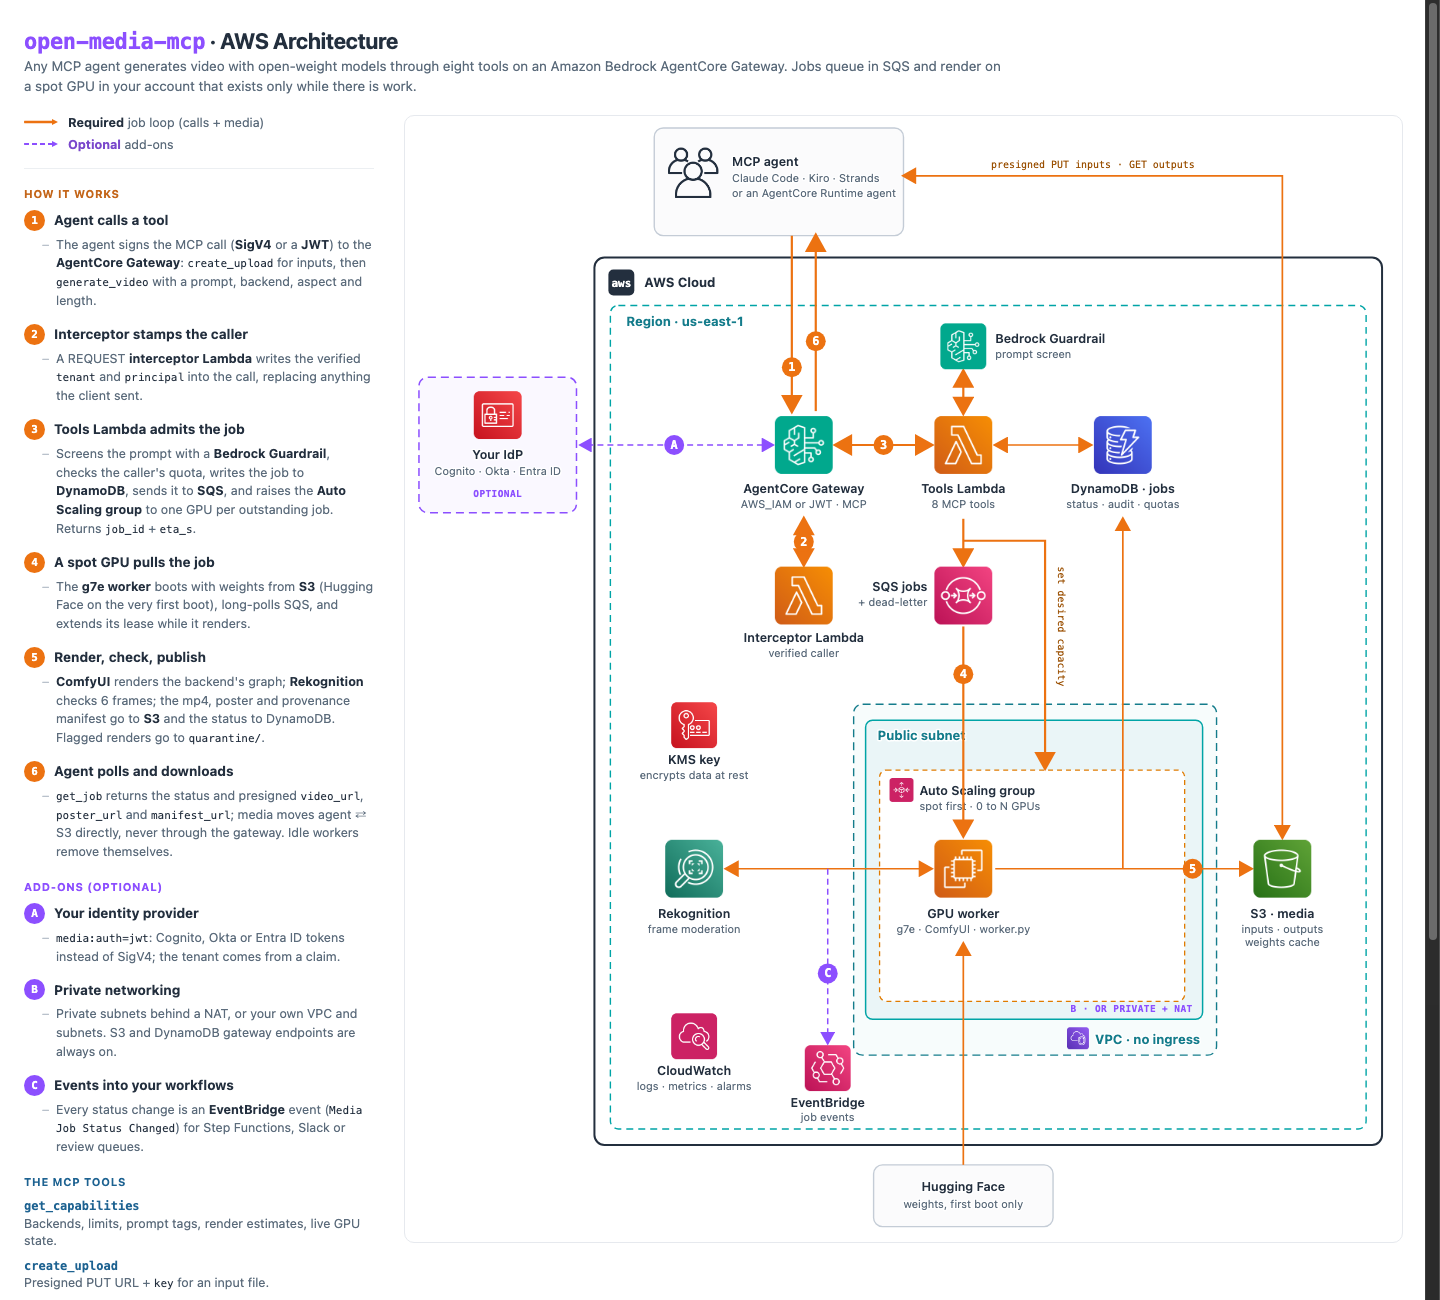
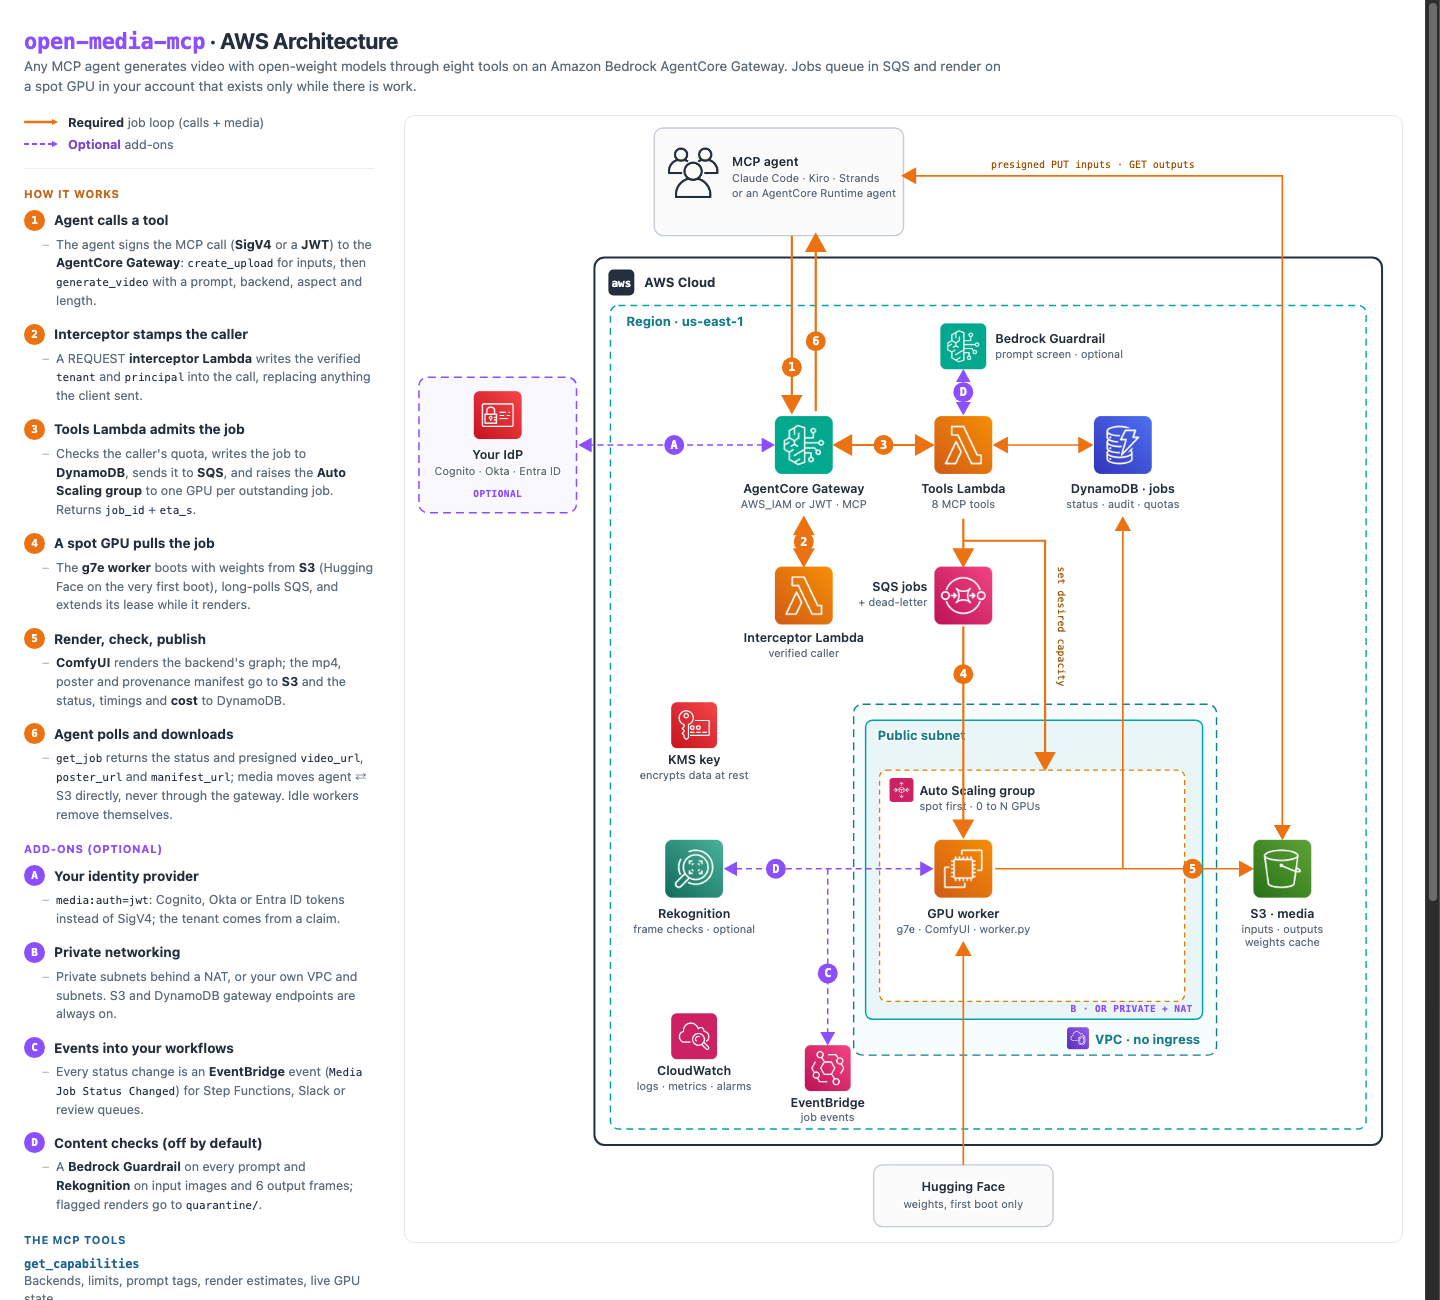
Content checks opt-in: guardrail and Rekognition moderation off by default; re-screen guardrail-blocked retries

diff --git a/docs/architecture.html b/docs/architecture.html
@@ -68,7 +68,7 @@
       </div>
       <div class="sec req">
         <div class="h"><span class="n">3</span> Tools Lambda admits the job</div>
-        <ul><li>Screens the prompt with a <b>Bedrock Guardrail</b>, checks the caller's quota, writes the job to <b>DynamoDB</b>, sends it to <b>SQS</b>, and raises the <b>Auto Scaling group</b> to one GPU per outstanding job. Returns <code>job_id</code> + <code>eta_s</code>.</li></ul>
+        <ul><li>Checks the caller's quota, writes the job to <b>DynamoDB</b>, sends it to <b>SQS</b>, and raises the <b>Auto Scaling group</b> to one GPU per outstanding job. Returns <code>job_id</code> + <code>eta_s</code>.</li></ul>
       </div>
       <div class="sec req">
         <div class="h"><span class="n">4</span> A spot GPU pulls the job</div>
@@ -76,7 +76,7 @@
       </div>
       <div class="sec req">
         <div class="h"><span class="n">5</span> Render, check, publish</div>
-        <ul><li><b>ComfyUI</b> renders the backend's graph; <b>Rekognition</b> checks 6 frames; the mp4, poster and provenance manifest go to <b>S3</b> and the status to DynamoDB. Flagged renders go to <code>quarantine/</code>.</li></ul>
+        <ul><li><b>ComfyUI</b> renders the backend's graph; the mp4, poster and provenance manifest go to <b>S3</b> and the status, timings and <b>cost</b> to DynamoDB.</li></ul>
       </div>
       <div class="sec req">
         <div class="h"><span class="n">6</span> Agent polls and downloads</div>
@@ -97,6 +97,11 @@
         <ul><li>Every status change is an <b>EventBridge</b> event (<code>Media Job Status Changed</code>) for Step Functions, Slack or review queues.</li></ul>
       </div>
 
+      <div class="sec opt">
+        <div class="h"><span class="n">D</span> Content checks (off by default)</div>
+        <ul><li>A <b>Bedrock Guardrail</b> on every prompt and <b>Rekognition</b> on input images and 6 output frames; flagged renders go to <code>quarantine/</code>.</li></ul>
+      </div>
+
       <div class="grp req" style="color:#1d6291">The MCP tools</div>
       <div class="tools">
         <div class="tool"><b>get_capabilities</b><span>Backends, limits, prompt tags, render estimates, live GPU state.</span></div>
@@ -109,7 +114,7 @@
       </div>
 
       <div class="grp req" style="color:#1d6291">Backends</div>
-      <div class="models"><b>wan2.2</b> (default) Apache-2.0, 720p silent T2V / I2V.<br><b>h3</b> (opt-in) picture + sound, lip-sync, refs; MiniMax H3 license excludes the US, EU, UK and KR.</div>
+      <div class="models"><b>wan2.2</b> (default) Apache-2.0, 720p silent T2V / I2V.<br><b>h3</b> (opt-in) picture + sound, lip-sync, reference images / video / audio; you need a MiniMax license in the US, EU, UK and KR.</div>
 
       <div class="cost"><b>Cost:</b> the GPU bills only while a worker exists (spot g7e.4xlarge ≈ USD 1.3-2/h). Idle cost is the KMS key and the S3 weight cache, about USD 3/month.</div>
     </aside>
@@ -194,7 +199,8 @@
       <!-- 3 gateway <-> tools, tools <-> guardrail, tools <-> dynamodb -->
       <path class="flow" d="M432,330 H528" marker-start="url(#arR)" marker-end="url(#ar)"/>
       <circle cx="480" cy="330" r="10" fill="#ec7211"/><text class="num" x="480" y="334" text-anchor="middle">3</text>
-      <path class="flow" d="M560,298 V256" marker-start="url(#arR)" marker-end="url(#ar)"/>
+      <path class="opt" d="M560,298 V256" marker-start="url(#aoR)" marker-end="url(#ao)"/>
+      <circle cx="560" cy="277" r="10" fill="#8c4fff"/><text class="num" x="560" y="281" text-anchor="middle">D</text>
       <path class="data" d="M592,330 H688" marker-start="url(#arR)" marker-end="url(#ar)"/>
 
       <!-- tools -> sqs spine, tee right to the Auto Scaling group -->
@@ -212,7 +218,8 @@
       <circle cx="790" cy="755" r="10" fill="#ec7211"/><text class="num" x="790" y="759" text-anchor="middle">5</text>
 
       <!-- worker <-> rekognition, tee down to EventBridge (C) -->
-      <path class="data" d="M528,755 H322" marker-start="url(#arR)" marker-end="url(#ar)"/>
+      <path class="opt" d="M528,755 H322" marker-start="url(#aoR)" marker-end="url(#ao)"/>
+      <circle cx="372" cy="755" r="10" fill="#8c4fff"/><text class="num" x="372" y="759" text-anchor="middle">D</text>
       <path class="opt" d="M424,755 V930" marker-end="url(#ao)"/>
       <circle cx="424" cy="860" r="10" fill="#8c4fff"/><text class="num" x="424" y="864" text-anchor="middle">C</text>
 
@@ -226,7 +233,7 @@
 
       <image href="./assets/aws/bedrock.png" x="537" y="208" width="46" height="46"/>
       <text class="ilab" x="592" y="228">Bedrock Guardrail</text>
-      <text class="ilab2" x="592" y="243">prompt screen</text>
+      <text class="ilab2" x="592" y="243">prompt screen · optional</text>
 
       <image href="./assets/aws/lambda.png" x="531" y="301" width="58" height="58"/>
       <text class="ilab" x="560" y="378" text-anchor="middle">Tools Lambda</text>
@@ -259,7 +266,7 @@
 
       <image href="./assets/aws/rekognition.png" x="261" y="726" width="58" height="58"/>
       <text class="ilab" x="290" y="804" text-anchor="middle">Rekognition</text>
-      <text class="ilab2" x="290" y="819" text-anchor="middle">frame moderation</text>
+      <text class="ilab2" x="290" y="819" text-anchor="middle">frame checks · optional</text>
 
       <image href="./assets/aws/cloudwatch.png" x="267" y="900" width="46" height="46"/>
       <text class="ilab" x="290" y="962" text-anchor="middle">CloudWatch</text>

diff --git a/lib/open-media-mcp-stack.ts b/lib/open-media-mcp-stack.ts
@@ -138,7 +138,7 @@ export class OpenMediaMcpStack extends Stack {
     });
 
     // ---------------------------------------------------------------- guardrail
-    const guardrailMode = cfg.str("guardrail", "create");
+    const guardrailMode = cfg.str("guardrail", "none");
     let guardrailId = "";
     let guardrailVersion = "";
     let guardrailArn = "";
@@ -273,7 +273,7 @@ export class OpenMediaMcpStack extends Stack {
       MEDIA_QUEUE_URL: queue.queueUrl,
       MEDIA_LOG_GROUP: workerLogs.logGroupName,
       MEDIA_IDLE_MINUTES: String(idleMinutes),
-      MEDIA_MODERATION: String(cfg.bool("outputModeration", true)),
+      MEDIA_MODERATION: String(cfg.bool("outputModeration", false)),
       MEDIA_MODERATION_MIN_CONFIDENCE: String(cfg.num("moderationMinConfidence", 80)),
       MEDIA_BLOCKED_LABELS: cfg.list("blockedLabels", ["Explicit", "Violence", "Visually Disturbing", "Hate Symbols"]).join(","),
       MEDIA_HF_TOKEN_SECRET: hfSecret,
@@ -358,7 +358,7 @@ export class OpenMediaMcpStack extends Stack {
         MEDIA_DAILY_JOB_LIMIT: String(cfg.num("dailyJobLimitPerCaller", 100)),
         MEDIA_MAX_QUEUED: String(cfg.num("maxQueuedJobs", 50)),
         MEDIA_JOB_RETENTION_DAYS: String(cfg.num("jobRetentionDays", 90)),
-        MEDIA_MODERATION: String(cfg.bool("outputModeration", true)),
+        MEDIA_MODERATION: String(cfg.bool("outputModeration", false)),
         MEDIA_IDLE_MINUTES: String(idleMinutes),
         MEDIA_INSTANCE_TYPES: instanceTypes.join(","),
       },

diff --git a/lambda/tools/handler.py b/lambda/tools/handler.py
@@ -134,7 +134,7 @@ def get_capabilities(args, caller):
                        "keyframes, last_frame continue the <Picture> numbering; ref_videos -> <Video n>; "
                        "ref_audios -> <Audio n> (h3 only).",
         "safety": {"prompt_guardrail": bool(E.get("MEDIA_GUARDRAIL_ID")),
-                   "output_moderation": E.get("MEDIA_MODERATION", "true") == "true"},
+                   "output_moderation": E.get("MEDIA_MODERATION", "false") == "true"},
         "limits": {"daily_jobs_per_caller": int(E.get("MEDIA_DAILY_JOB_LIMIT", "0")) or None,
                    "max_queued_jobs": int(E["MEDIA_MAX_QUEUED"]), "url_ttl_s": PRESIGN_TTL},
         "gpu": {"ready_workers": ready_workers(f), "desired": f["desired"], "max": f["max"], "purchase": f["purchase"],
@@ -282,9 +282,12 @@ def generate_video(args, caller):
     idem = args.get("idempotency_key")
     job_id = ("j-" + hashlib.sha256(f"{tenant}|{idem}".encode()).hexdigest()[:24]) if idem else \
         f"j-{now().strftime('%Y%m%d%H%M%S')}-{uuid.uuid4().hex[:8]}"
+    retry_blocked = False
     if idem:
         existing = table.get_item(Key={"job_id": job_id}).get("Item")
-        if existing:
+        # A prompt the guardrail blocked never ran; retrying it (e.g. after a policy change) screens it again.
+        retry_blocked = bool(existing) and existing["status"] == "BLOCKED" and str(existing.get("error", "")).startswith("prompt blocked")
+        if existing and not retry_blocked:
             return {"job_id": job_id, "status": existing["status"], "deduplicated": True}
     labels = {str(k)[:64]: str(v)[:256] for k, v in (args.get("labels") or {}).items()} if isinstance(args.get("labels"), dict) else {}
     item = {
@@ -308,7 +311,11 @@ def generate_video(args, caller):
     take_quota(tenant)
     item.update(status="QUEUED", phase="waiting for a GPU")
     try:
-        table.put_item(Item=ddb_safe(item), ConditionExpression="attribute_not_exists(job_id)")
+        if retry_blocked:
+            table.put_item(Item=ddb_safe(item), ConditionExpression="#s = :b", ExpressionAttributeNames={"#s": "status"},
+                           ExpressionAttributeValues={":b": "BLOCKED"})
+        else:
+            table.put_item(Item=ddb_safe(item), ConditionExpression="attribute_not_exists(job_id)")
     except ClientError as e:
         if e.response["Error"]["Code"] == "ConditionalCheckFailedException":
             return {"job_id": job_id, "status": "QUEUED", "deduplicated": True}

diff --git a/worker/worker.py b/worker/worker.py
@@ -326,7 +326,7 @@ class Prep:
 # --------------------------------------------------------------------------- moderation
 BLOCKED = {s.strip() for s in E.get("MEDIA_BLOCKED_LABELS", "").split(",") if s.strip()}
 MIN_CONF = float(E.get("MEDIA_MODERATION_MIN_CONFIDENCE", "80"))
-MODERATE = E.get("MEDIA_MODERATION", "true").lower() == "true"
+MODERATE = E.get("MEDIA_MODERATION", "false").lower() == "true"
 
 
 def moderate_jpegs(paths):

diff --git a/README.md b/README.md
@@ -29,7 +29,7 @@ limits. See [Adding a backend](THIRD_PARTY_MODELS.md#adding-a-backend).
 |---|---|
 | **No public endpoint** | AgentCore Gateway with `AWS_IAM` (SigV4) or `CUSTOM_JWT` (Cognito, Okta, Entra ID). There is no unauthenticated mode. GPU workers have no inbound rules; they pull from SQS. |
 | **Who did what** | A Gateway REQUEST interceptor stamps the verified caller (`tenant`, `principal`) on every tool call; clients can't forge it. Jobs, uploads, quotas and `list_jobs` are tenant-scoped. Every call and job transition is logged. |
-| **Content safety** | Prompts pass an **Amazon Bedrock Guardrail** (created for you with MEDIUM filters, tunable per category, or bring your own) before any GPU time is spent. Input images and 6 sampled output frames pass **Amazon Rekognition** moderation; flagged renders go to `quarantine/` with no download URL (`BLOCKED`). |
+| **Content safety (opt-in)** | Off by default: straight generation, no filters. Turn on `media:guardrail=create` (an **Amazon Bedrock Guardrail** on every prompt, MEDIUM per category and tunable) or bring your company's guardrail, and/or `media:outputModeration=true` (**Amazon Rekognition** on input images and 6 sampled output frames; flagged renders go to `quarantine/` with no download URL, status `BLOCKED`). |
 | **Provenance** | Each output gets a manifest: input SHA-256s, backend, model files, seed, steps, ComfyUI commit, worker instance, guardrail and moderation results, output SHA-256. The mp4 carries `ai_generated=true` metadata and the license notice where one is required. |
 | **Chargeback** | Every job records its GPU seconds, the live price of the instance it ran on, and its USD cost. `cost_report` totals it per label for showback or chargeback; the fleet total shows boot and idle overhead separately. |
 | **Cost control** | Spot first across GPU types and AZs (on-demand switch is one tool call), one GPU per outstanding job up to `maxInstances`, workers remove themselves after `idleMinutes` with an empty queue, per-caller daily job cap, global queue cap. |
@@ -72,7 +72,8 @@ npx cdk deploy -c media:auth=jwt \
   -c media:jwtDiscoveryUrl=https://cognito-idp.us-east-1.amazonaws.com/<pool>/.well-known/openid-configuration \
   -c media:jwtAllowedClients=<app-client-id>                            # your IdP instead of SigV4
 npx cdk deploy -c media:privateNetworking=true                          # private subnets + NAT
-npx cdk deploy -c media:guardrail=<guardrail-id>:<version>              # your company guardrail
+npx cdk deploy -c media:guardrail=create -c media:outputModeration=true    # turn on prompt + frame checks
+npx cdk deploy -c media:guardrail=<guardrail-id>:<version>              # or your company guardrail
 npx cdk deploy -c media:alarmEmail=oncall@example.com
 npx cdk deploy -c media:backends=wan2.2,h3        # add MiniMax-H3: license required in the US, EU, UK, KR (THIRD_PARTY_MODELS.md)
 ```

diff --git a/SECURITY.md b/SECURITY.md
@@ -15,9 +15,10 @@ public issue. We aim to acknowledge within 3 business days.
   SNS topic. The bucket blocks public access and denies non-TLS requests. EBS volumes are encrypted.
 - **Least privilege.** Each role is scoped to its prefix or resource; autoscaling writes are tag-conditioned to
   this stack's group.
-- **Content safety.** Prompts go through an Amazon Bedrock Guardrail before they reach the GPU; input images and
-  sampled output frames go through Amazon Rekognition moderation. Flagged renders land in `quarantine/` with no
-  download URL.
+- **Content safety (opt-in, off by default).** `media:guardrail=create` (or your own guardrail id) screens every prompt
+  with an Amazon Bedrock Guardrail before it reaches the GPU; `media:outputModeration=true` runs input images and
+  sampled output frames through Amazon Rekognition and sends flagged renders to `quarantine/` with no download URL.
+  The open models themselves have no content filter.
 - **Audit.** Every tool call and job transition is logged with the tenant and principal (CloudWatch Logs), job
   records keep the guardrail and moderation results, and each output has a provenance manifest (input hashes,
   model, seed, worker, output hash). Gateway API calls are in CloudTrail.
@@ -25,4 +26,4 @@ public issue. We aim to acknowledge within 3 business days.
 ## Your responsibilities
 - Model licenses and acceptable-use terms (see THIRD_PARTY_MODELS.md).
 - Who may call the gateway (IAM policies on `bedrock-agentcore:InvokeGateway`, or your IdP's client and audience).
-- Reviewing quarantined outputs and tuning the guardrail and moderation thresholds to your policy.
+- Deciding whether to turn on the guardrail and moderation, and tuning them to your policy.

diff --git a/THIRD_PARTY_MODELS.md b/THIRD_PARTY_MODELS.md
@@ -22,8 +22,8 @@ The MiniMax H3 Community License (read the full text; this is a summary, not leg
    UI, and products built on it must say **"Powered by MiniMax H3"**. Every h3 job result from this MCP carries
    that notice (`notice` field, mp4 `copyright` tag, provenance manifest) so your UI can show it.
 4. **Use policy.** Follow the license's acceptable-use exhibit (for example: no military use; disclose AI
-   content you publish; outputs may not be used to train other models). The prompt guardrail and output
-   moderation in this stack help, but they are not a substitute for your own policy and review.
+   content you publish; outputs may not be used to train other models). The stack's optional prompt guardrail and
+   output moderation (both off by default) can help, but they are not a substitute for your own policy and review.
 5. **Hosted services.** If you offer it to third parties, bind your users to the same use restrictions and keep
    an abuse reporting channel.
 
